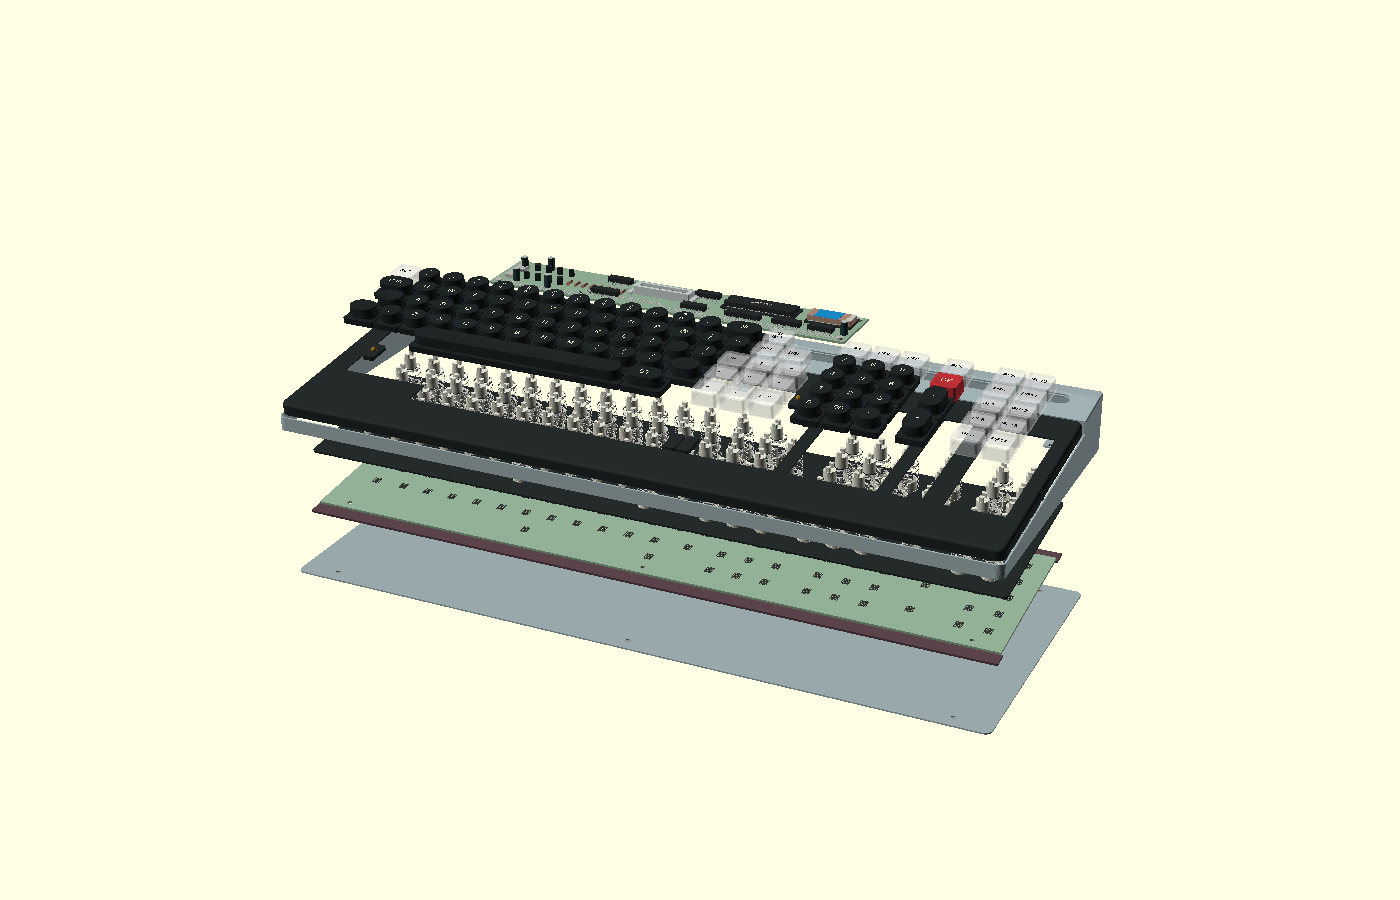
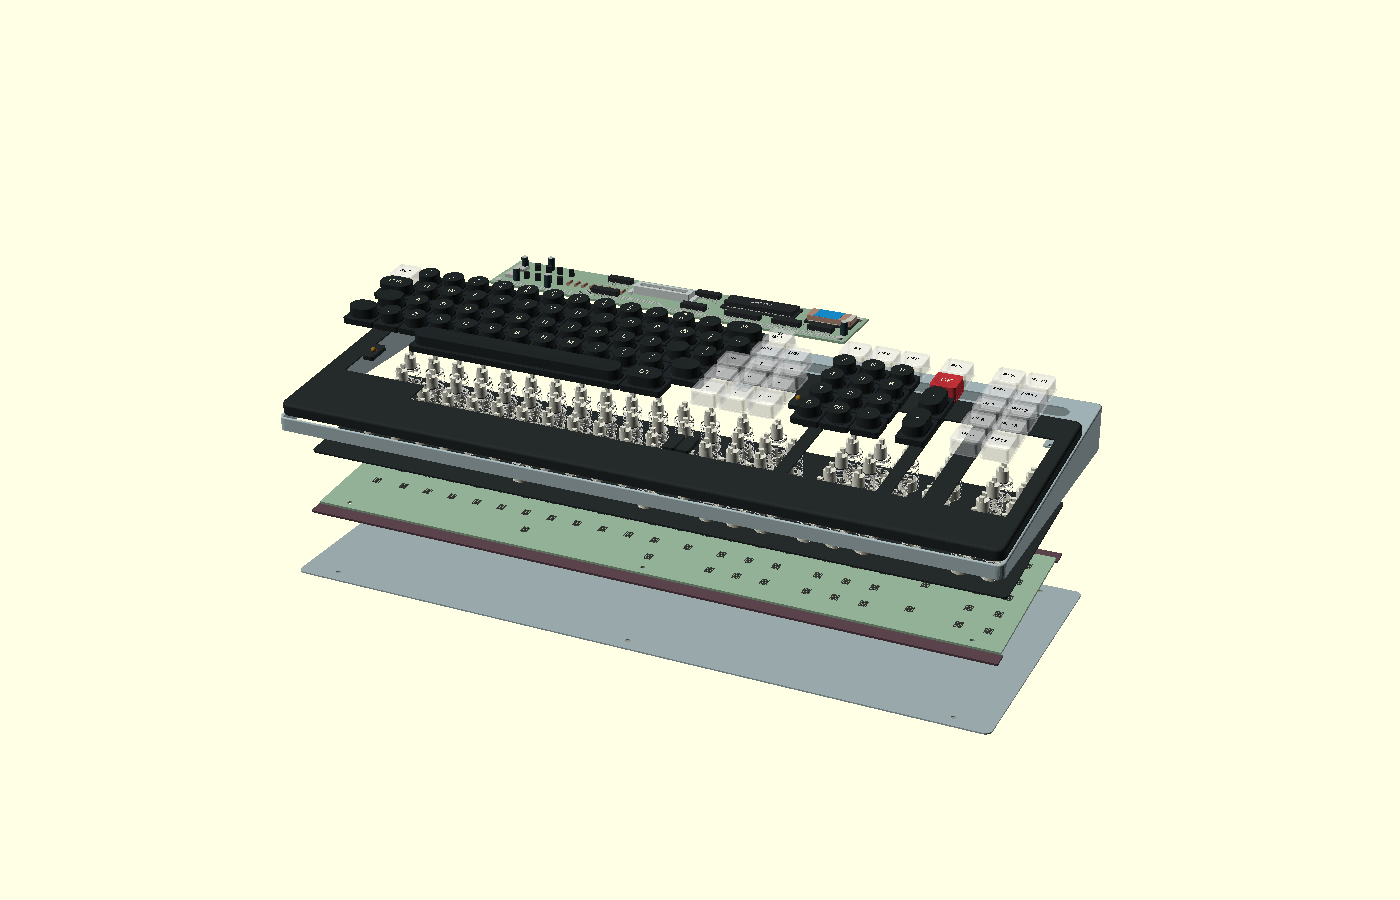
Correct keyboard rear separation and top bend from owner side photo

Changed region(s): [[0.5529, 0.3733, 0.7986, 0.4978]]

diff --git a/models/robotron-1715m/keyboard/render.py b/models/robotron-1715m/keyboard/render.py
@@ -8,20 +8,22 @@ import time
 
 root = Path(__file__).resolve().parent
 parser = argparse.ArgumentParser(description=__doc__)
-parser.add_argument('--view', choices=['assembled', 'front', 'underside', 'exploded', 'boards', 'all'], default='all')
+parser.add_argument('--view', choices=['assembled', 'front', 'side', 'underside', 'exploded', 'boards', 'all'], default='all')
 args = parser.parse_args()
 keys = json.loads((root.parent / 'keyboard-layout.json').read_text())
 (root / 'legends.scad').write_text(
     '// Generated from ../keyboard-layout.json; same order as ../keyboard-layout.scad.\n'
     + 'key_legends=' + json.dumps([k.get('legend', [k['label']]) for k in keys], ensure_ascii=False) + ';\n')
-for view in (['assembled', 'front', 'underside', 'exploded', 'boards'] if args.view == 'all' else [args.view]):
+for view in (['assembled', 'front', 'side', 'underside', 'exploded', 'boards'] if args.view == 'all' else [args.view]):
     filename = 'preview.png' if view == 'assembled' else view + '.png'
     camera = '0,0,0,65,0,25,850' if view == 'exploded' else '0,0,0,35,0,0,850'
     if view == 'front':
         camera = '0,0,0,82,0,15,850'
+    if view == 'side':
+        camera = '0,0,0,90,0,90,850'
     if view == 'underside':
         camera = '0,0,0,180,0,0,850'
-    scene_view = 'assembled' if view in ('front', 'underside') else view
+    scene_view = 'assembled' if view in ('front', 'side', 'underside') else view
     started = time.monotonic()
     result = subprocess.run([
         'openscad', '--backend', 'Manifold', '--preview', '--imgsize=1400,900',

diff --git a/models/robotron-1715m/keyboard/README.md b/models/robotron-1715m/keyboard/README.md
@@ -11,6 +11,7 @@ Clear keys have a separate silver inlay and configurable shell alpha.
 
 - [Assembled preview](preview.png)
 - [Low front preview](front.png)
+- [Side profile](side.png)
 - [Underside preview](underside.png)
 - [Exploded preview with springs](exploded.png)
 - [PCB/contact preview](boards.png)
@@ -31,11 +32,11 @@ From this directory:
 ```sh
 python3 render.py --view assembled  # one quick color PNG
 python3 render.py --view front      # check front fascia and deck joint
-python3 render.py                   # all five review views
+python3 render.py                   # all six review views
 ```
 
 This uses the installed OpenSCAD build with the Manifold backend. On the current
-Mac, all five previews take only a few seconds. It does not regenerate STLs,
+Mac, all six previews take only a few seconds. It does not regenerate STLs,
 rebuild the complete computer, sync DAC, or run browser/emulator CI. Review shape,
 spacing, colors and internals here first; then export only the affected canonical
 parts and sync the museum once the change is ready.
@@ -92,3 +93,12 @@ and bottom planes are parallel (both follow the keyboard tilt); it is not a
 wedge. The deck top and key mechanism datum stay in place while the skirt
 extends downward. The light base is trimmed to the parallel seating plane.
 The outer 2 mm / inner 1 mm top bends preserve 1 mm material thickness.
+
+The October 13 side photo `PXL_20261013_084425145.jpg` corrects the rear shelf:
+the light base has one continuous sloping top plane, including behind the black
+panel. The earlier raised rear ledge incorrectly intersected the black skirt.
+The 1 mm separation now continues along the full panel; `--view side` checks it.
+
+The same side photo shows a small round top-to-wall bend in the light base.
+A 1 mm rounded offset of the inner wedge models this separately from the
+5 mm corners in plan; the lower rim remains flat and open for the separate lid.
